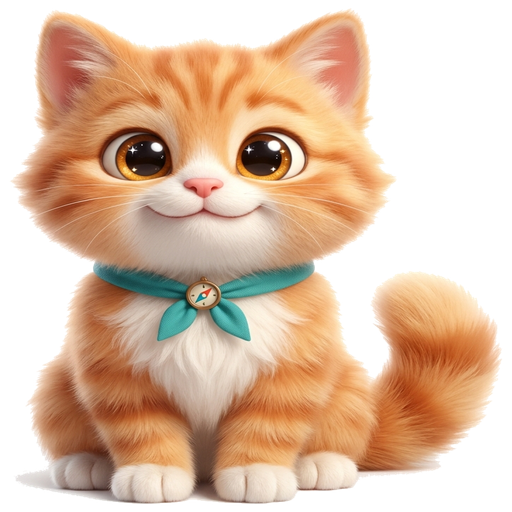
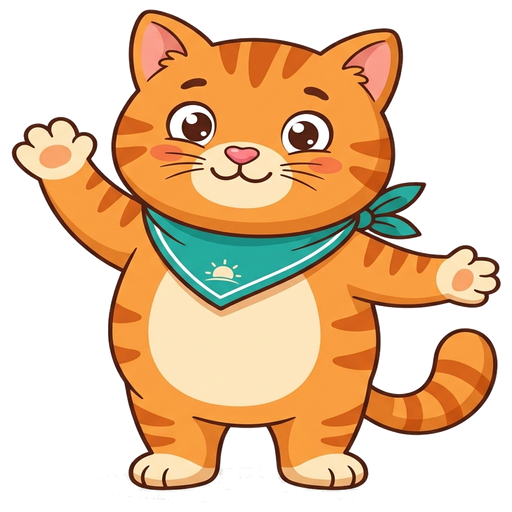
feat(mascot): switch to vibrant 2D cartoon animation style for mascot with transparent backgrounds

diff --git a/mascot.js b/mascot.js
@@ -8,7 +8,7 @@ class MascotController {
     this.container = document.getElementById(containerId);
     this.bubbleContainer = document.getElementById(bubbleContainerId);
     this.state = 'idle'; // idle | listening | thinking | speaking | celebrating
-    this.mascotMode = localStorage.getItem('bilgi_kasifi_mascot_mode') || 'model'; // 'model' (3D AI Üretimi) veya 'vector' (SVG)
+    this.mascotMode = localStorage.getItem('bilgi_kasifi_mascot_mode') || 'model'; // 'model' (2D Çizgi Film) veya 'vector' (SVG)
     this.poppedBubblesCount = 0;
     this.bubbleInterval = null;
     this.speechInterval = null;
@@ -41,9 +41,9 @@ class MascotController {
     const isModelMode = this.mascotMode === 'model';
 
     this.container.innerHTML = `
-      <!-- Maskot Görünüm Seçici (3D Model / Vektör) -->
+      <!-- Maskot Görünüm Seçici (Çizgi Film / Vektör) -->
       <div class="mascot-mode-toggle" id="mascotModeToggle">
-        <button type="button" class="mode-pill ${isModelMode ? 'active' : ''}" id="btnModelMascot" title="3D Yapay Zekâ Model Maskotu">🎨 3D Model</button>
+        <button type="button" class="mode-pill ${isModelMode ? 'active' : ''}" id="btnModelMascot" title="2D Çizgi Film Animasyon Maskotu">🎬 Çizgi Film</button>
         <button type="button" class="mode-pill ${!isModelMode ? 'active' : ''}" id="btnVectorMascot" title="Vektör Çizim Maskot">✏ Vektör</button>
       </div>
 
